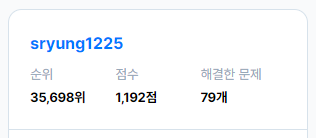
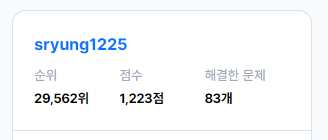
프로그래머스 점수 업데이트 : 1,192 -> 1,223 (+31)

diff --git a/README.md b/README.md
@@ -7,7 +7,7 @@
 문제 풀이를 완료하는 경우 커밋을 진행합니다.
 
 ### 🌱 현재 단계
-- 4주차
+- 5주차
 - 프로그래머스 코딩테스트 입문 Level 0 풀이
 - ![프로그래머스 현재 상태](./assets/status_programmers.PNG)
 
